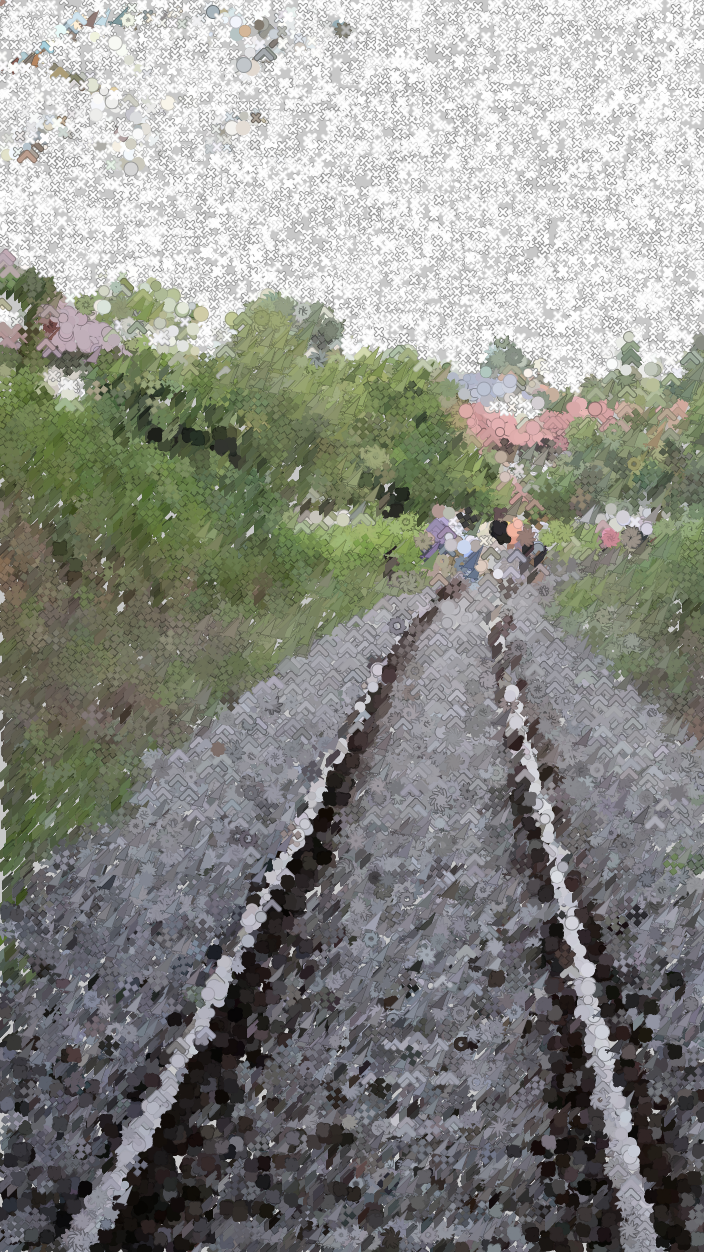
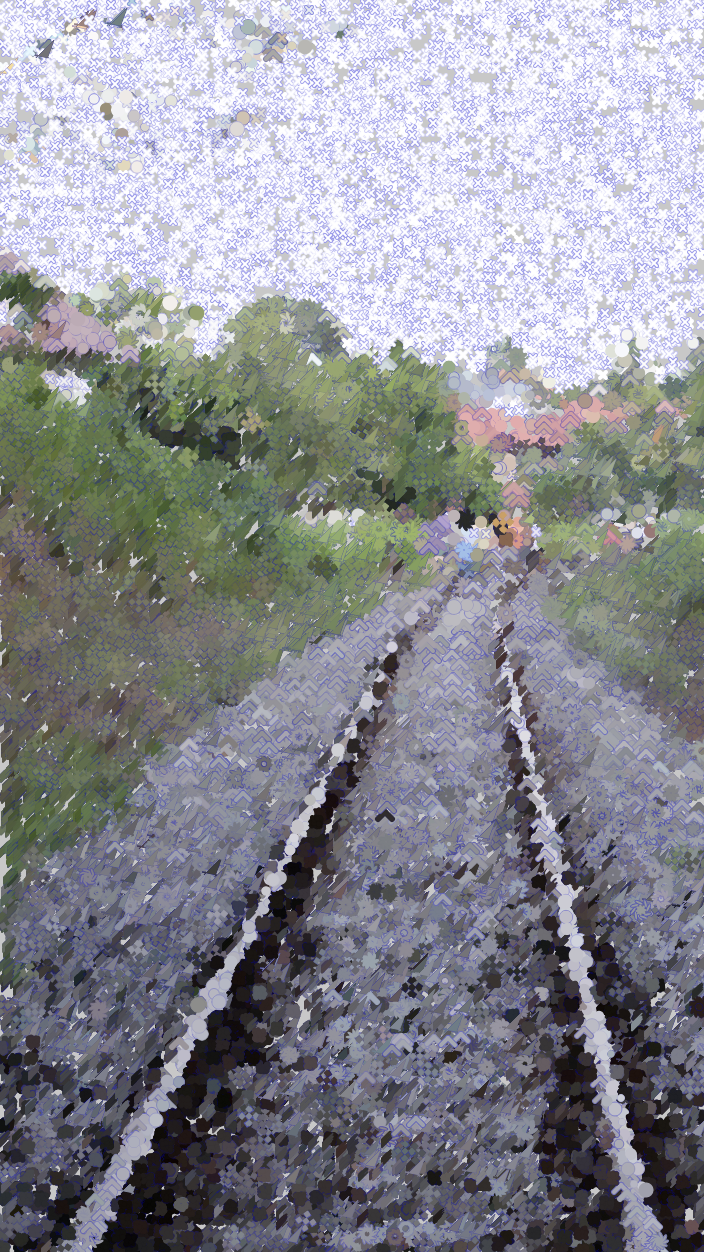
Change brush outline to blue

diff --git a/sketch.js b/sketch.js
@@ -108,13 +108,13 @@ function draw() {
   if(renderCounter == 0) {
     background(200);
   }
-  for (let i = 0; i < 2500; i++) {
+  for (let i = 0; i < 2300; i++) {
     let x = floor(random(sourceImg.width));
     let y = floor(random(sourceImg.height));
     let pix = sourceImg.get(x, y);
     let mask = maskImg.get(x, y);
     let from = color(pix);
-    let to = color(0, 0, 0);  //Additional outline colours for each brush
+    let to = color(0, 0, 200);  //Additional outline colours for each brush
     let r = random(0, 0.4);
     let random_color = lerpColor(from, to, r);
 
